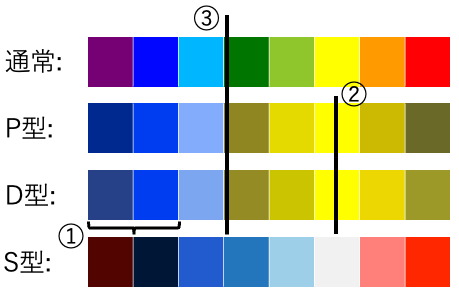
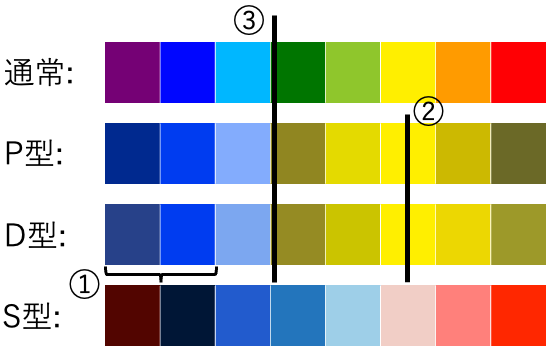
3aの作成（評価）

diff --git a/public/js/3a.js b/public/js/3a.js
@@ -1,17 +1,25 @@
 //グラフの共通データ
-var datas = [[8.0, 9.4, 11.9, 15.4, 21.1],[7.0, 10.2, 13.5, 16.7, 20.4],[9.5, 9.7, 12.4, 14.1, 20.4],[6.5, 6.7, 8.4, 16.1, 22.4]];
+var datas = [[1.7, 2.0, 3.0, 4.2,5.0],[2.6, 4.2, 1.9, 2.3,3.3],[4.3, 3.0, 3.7, 3.1,2.3]];
 var options = {
   responsive: false,
-}
-var labels = ['1', '2', '3', '4', '5'];
-var label = ["線１","線２","線３","線４"]
+  scales: { 
+    y: {
+      ticks: {
+        min:0,
+        stepSize: 1.0,
+      }
+    }
+  }
+};
+var labels = ['0', '1', '2', '3','4'];
+var label = ["線１","線２","線３"]
 
 document.addEventListener('DOMContentLoaded', function() {
 
   //メインのグラフ
   var ctx = document.querySelector("#graph1").getContext("2d");
-  var color = new Array(4);
-  for(let i=0;i<=3;i++){
+  var color = new Array(3);
+  for(let i=0;i<3;i++){
     color[i] = '#' + document.querySelector("input[name=a0s" + String(i) + "]").value;
   }
   var data = {
@@ -31,11 +39,6 @@ document.addEventListener('DOMContentLoaded', function() {
       data: datas[2],
       borderColor: color[2] ,
       backgroundColor: color[2] ,
-    },{
-      label: label[3],
-      data: datas[3],
-      borderColor: color[3] ,
-      backgroundColor: color[3] ,
     }],
   }
   var chart = new Chart(ctx, {
@@ -45,11 +48,11 @@ document.addEventListener('DOMContentLoaded', function() {
   });  
 
   //ラジオボタン
-  for(let i=0;i<=3;i++){
+  for(let i=0;i<3;i++){
     for(let element of document.querySelectorAll("input[name=s" + String(i) + "]")) {
       element.addEventListener('change',function(){
-        chart.data.datasets[i].borderColor = '#' + this.value;
-        chart.data.datasets[i].backgroundColor = '#' + this.value;
+        chart.data.datasets[i].borderColor = '#' + this.id;
+        chart.data.datasets[i].backgroundColor = '#' + this.id;
         chart.update();
       });
     }
@@ -57,11 +60,11 @@ document.addEventListener('DOMContentLoaded', function() {
 
   //別色覚のグラフ
   var actx;
-  var acol = new Array(4);
+  var acol = new Array(3);
   var adata;
   for(let i=0;i<=3;i++){
     actx = document.querySelector("#a"+String(i)).getContext("2d");
-    for(let j=0;j<=3;j++){
+    for(let j=0;j<3;j++){
       acol[j] = '#' + document.querySelector("input[name=a"+String(i)+"s"+String(j)+"]").value
     }
     adata = {
@@ -81,11 +84,6 @@ document.addEventListener('DOMContentLoaded', function() {
         data: datas[2],
         borderColor: acol[2] ,
         backgroundColor: acol[2] ,
-      },{
-        label: label[3],
-        data: datas[3],
-        borderColor: acol[3] ,
-        backgroundColor: acol[3] ,
       }],
     }
     var achart = new Chart(actx, {

diff --git a/app.js b/app.js
@@ -765,8 +765,7 @@ app.post("/question/6/answer", (req, res) => {
 
 app.get("/question/7", (req, res) => {
   let textdata;
-  let col = [["FF0000",""],["008000",""],["0000FF",""],["FF0000",""]];
-  console.log(col[0][0]);
+  let col = [["FF0000",""],["008000",""],["0000FF",""]];
   // テキスト
   let sql = "select id,item,que" 
     + " from text"
@@ -804,15 +803,15 @@ app.get("/question/7", (req, res) => {
 app.post("/question/7/answer", (req, res) => {
 
   let textdata;
-  let gb;
-  let col = [[],[],[],[]];
-
+  let gb = 1;
+  let id = [req.body.s0,req.body.s1,req.body.s2];
+  let col = [[],[],[]];
   // 選択された色のカラーコード
   let s = "select name,ccode,pcode,dcode,scode"
     + " from color" 
-    + " where ccode = '";
+    + " where id = ";
 
-  let sqls = [s+req.body.s0+"';",s+req.body.s1+"';",s+req.body.s2+"';",s+req.body.s3+"';",]
+  let sqls = [ s+id[0]+";" , s+id[1]+";" , s+id[2]+";" ];
 
   let i = 0;
   for(let sql of sqls){
@@ -831,23 +830,33 @@ app.post("/question/7/answer", (req, res) => {
       })
     })
   }
-  /*
+  
   //選択された色の評価
-  let sqla = "select gb"
-    + " from eva" 
-    + " where (cola = " + backid + " and colb = " + req.body.choice + ")" 
-    + " or (cola = " + req.body.choice + " and colb = " + backid + ")"
-    + ";";
-
-  db.serialize( () => {
-    db.all(sqla, (error, eva) => {
-      if( error ) {
-        res.render('show', {mes:"エラーです"});
-      }
-      gb = eva[0].gb;
+  var sqla = new Array();
+  var a;
+  for(let j=0;j<2;j++){
+    for(let k=j+1;k<3;k++){
+      a = "select gb"
+      + " from eva" 
+      + " where (cola = " + id[j] + " and colb = " + id[k] + ")" 
+      + " or (cola = " + id[k] + " and colb = " + id[j] + ")"
+      + ";";
+      sqla.push(a);
+    }
+  }
+  for(let sql of sqla){
+    db.serialize( () => {
+      db.all(sql, (error, eva) => {
+        if( error ) {
+          return res.render('show', {mes:"エラーです"});
+        }
+        if(eva[0].gb == 0){
+          gb = 0;
+        }
+      })
     })
-  })
-*/
+  }
+  
   // テキスト
   let sqlb = "select *"
     + " from text"
@@ -876,10 +885,12 @@ app.post("/question/7/answer", (req, res) => {
       if( error ) {
         res.render('show', {mes:"エラーです"});
       }
-      res.render('layout_3a', {e:1,textdata:textdata,choices:choices,col:col,gb:0});
+      res.render('layout_3a', {e:1,textdata:textdata,choices:choices,col:col,gb:gb});
     })
   })
 });
+
+
 
 app.use(function(req, res, next) {
   res.status(404).send('ページが見つかりません');

diff --git a/crud/ins-color.js b/crud/ins-color.js
@@ -6,17 +6,18 @@ let sql =
   + `("黒","000000","000000","000000","000000")`     //1
   + `,("赤","FF0000","76742C","A7A32F","FF2C01")`    //2
   + `,("橙","FFA500","D2C103","EEDC04","FF8B86")`    //3
-  + `,("緑","008000","9A9125","9F9628","2980C4")`    //4
-  + `,("黄緑","2BFF05","F4EB00","E3DB02","B0DFF7")`  //5
-  + `,("青","0000FF","0044F2","0044F2","00163E")`    //6
-  + `,("空色","00BFFF","8FB5FD","88B0F2","2866D3")`  //7
-  + `,("紫","800080","002E9A","2D4A94","5C0400")`    //8
-  + `,("明るめの橙","FFBF33","E3D42D","ECDB21","FF9A96")`    //9
-  + `,("暗めの橙","99721E","837801","94890B","8F4E4B")`    //10
-  + `,("明るめの緑","31FC31","FFF14D","FFF04B","54B5FF")`   //11
-  + `,("暗めの緑","198019","837C2A","8B8223","2A6C9E")`   //12
-  + `,("ピンク","FFBFC0","C7C7C7","DADADA","FFC7BC")`    //13
-  + `,("水色","C1C1FF","BFD1FF","C1D3FF","5C677A")`    //14
+  + `,("黄色","FFF100","FFF100","FFF100","F3D4CD")`    //4
+  + `,("緑","008000","9A9125","9F9628","2980C4")`    //5
+  + `,("黄緑","9ACD32","F4EB00","E3DB02","B0DFF7")`  //6
+  + `,("青","0000FF","0044F2","0044F2","00163E")`    //7
+  + `,("空色","00BFFF","8FB5FD","88B0F2","2866D3")`  //8
+  + `,("紫","800080","002E9A","2D4A94","5C0400")`    //9
+  + `,("明るめの橙","FFBF33","E3D42D","ECDB21","FF9A96")`    //10
+  + `,("暗めの橙","99721E","837801","94890B","8F4E4B")`    //11
+  + `,("明るめの緑","31FC31","FFF14D","FFF04B","54B5FF")`   //12
+  + `,("暗めの緑","198019","837C2A","8B8223","2A6C9E")`   //13
+  + `,("ピンク","FFBFC0","C7C7C7","DADADA","FFC7BC")`    //14
+  + `,("水色","C1C1FF","BFD1FF","C1D3FF","5C677A")`    //15
   + `;`;
 
 

diff --git a/crud/ins-eva.js b/crud/ins-eva.js
@@ -11,45 +11,62 @@ let sql =
   + `,(1,6,0)`
   + `,(1,7,1)` 
   //赤
+  + `,(2,2,0)`
   + `,(2,3,0)` 
-  + `,(2,4,0)` 
-  + `,(2,5,1)` 
+  + `,(2,4,1)` 
+  + `,(2,5,0)` 
   + `,(2,6,1)` 
   + `,(2,7,1)` 
-  + `,(2,8,0)` 
+  + `,(2,8,1)` 
+  + `,(2,9,0)` 
   //橙
-  + `,(3,4,1)` 
-  + `,(3,5,0)` 
-  + `,(3,6,1)` 
-  + `,(3,7,0)` 
+  + `,(3,3,0)`
+  + `,(3,4,0)` 
+  + `,(3,5,1)` 
+  + `,(3,6,0)` 
+  + `,(3,7,1)` 
   + `,(3,8,1)` 
-  //緑
-  + `,(4,5,1)` 
+  + `,(3,9,1)` 
+  //黄色
+  + `,(4,4,0)` 
+  + `,(4,5,1)`
   + `,(4,6,0)` 
-  + `,(4,7,1)`
-  + `,(4,8,0)`
+  + `,(4,7,1)` 
+  + `,(4,8,1)` 
+  + `,(4,9,1)` 
+  //緑
+  + `,(5,5,0)`
+  + `,(5,6,0)` 
+  + `,(5,7,1)` 
+  + `,(5,8,0)`
+  + `,(5,9,1)`
   //黄緑
-  + `,(5,6,1)`
-  + `,(5,7,0)`
-  + `,(5,8,1)`
-  //青
+  + `,(6,6,0)`
   + `,(6,7,1)`
-  + `,(6,8,0)`
-  //空色
+  + `,(6,8,1)`
+  + `,(6,9,1)`
+  //青
+  + `,(7,7,0)`
   + `,(7,8,1)`
+  + `,(7,9,0)`
+  //空色
+  + `,(8,8,0)`
+  + `,(8,9,1)`
+  //紫
+  + `,(9,9,0)`
   //明度関連
-  + `,(9,10,1)`
-  + `,(9,11,0)`
-  + `,(9,12,1)`
   + `,(10,11,1)`
   + `,(10,12,0)`
+  + `,(10,13,1)`
   + `,(11,12,1)`
+  + `,(11,13,0)`
+  + `,(12,13,1)`
   //彩度関連
-  + `,(13,2,1)`
-  + `,(13,6,1)`
-  + `,(13,14,0)`
   + `,(14,2,1)`
-  + `,(14,6,1)`
+  + `,(14,7,1)`
+  + `,(14,15,0)`
+  + `,(15,2,1)`
+  + `,(15,7,0)`
   + `;`;
 
 

diff --git a/crud/ins-text.js b/crud/ins-text.js
@@ -31,7 +31,7 @@ let sql =
   //2c
   +',("彩度","CUDに配慮し、背景色に対する中の文字の色を選択してください。"'
   +',"彩度の高い色と低い色で対比するか、彩度の高い色同士で対比することで区別がつきやすくなる。"'
-  +',"彩度が低い色同士で対比すると、色による区別がつきづらい場合があります。"'
+  +',"彩度が低い色同士で対比すると、色による区別がつきづらい場合があります。また、青と水色のように、色によっては彩度に差をつけても区別しづらい場合があります。"'
   +',"少なくともどちらか一方は彩度が高い色を選択しましょう。")'
   //3a
   +',("a","aa"'

diff --git a/crud/ins-tc.js b/crud/ins-tc.js
@@ -5,24 +5,26 @@ let sql =
   `insert into tc (t_id,c_id) values` 
   + `(1,2)` 
   + `,(1,3)`
-  + `,(1,4)`
   + `,(1,5)`
   + `,(1,6)`
   + `,(1,7)` 
+  + `,(1,8)` 
   + `,(4,2)` 
   + `,(4,3)` 
   + `,(4,4)` 
   + `,(4,5)` 
   + `,(4,6)` 
+  + `,(4,7)` 
   + `,(4,8)`
-  + `,(5,9)`
+  + `,(4,9)`
   + `,(5,10)`
   + `,(5,11)`
   + `,(5,12)`
+  + `,(5,13)`
   + `,(6,2)`
-  + `,(6,6)`
-  + `,(6,13)`
+  + `,(6,7)`
   + `,(6,14)`
+  + `,(6,15)`
   + `,(7,2)`
   + `,(7,3)`
   + `,(7,4)`
@@ -30,6 +32,7 @@ let sql =
   + `,(7,6)`
   + `,(7,7)`
   + `,(7,8)`
+  + `,(7,9)`
   + `;`;
 
 
